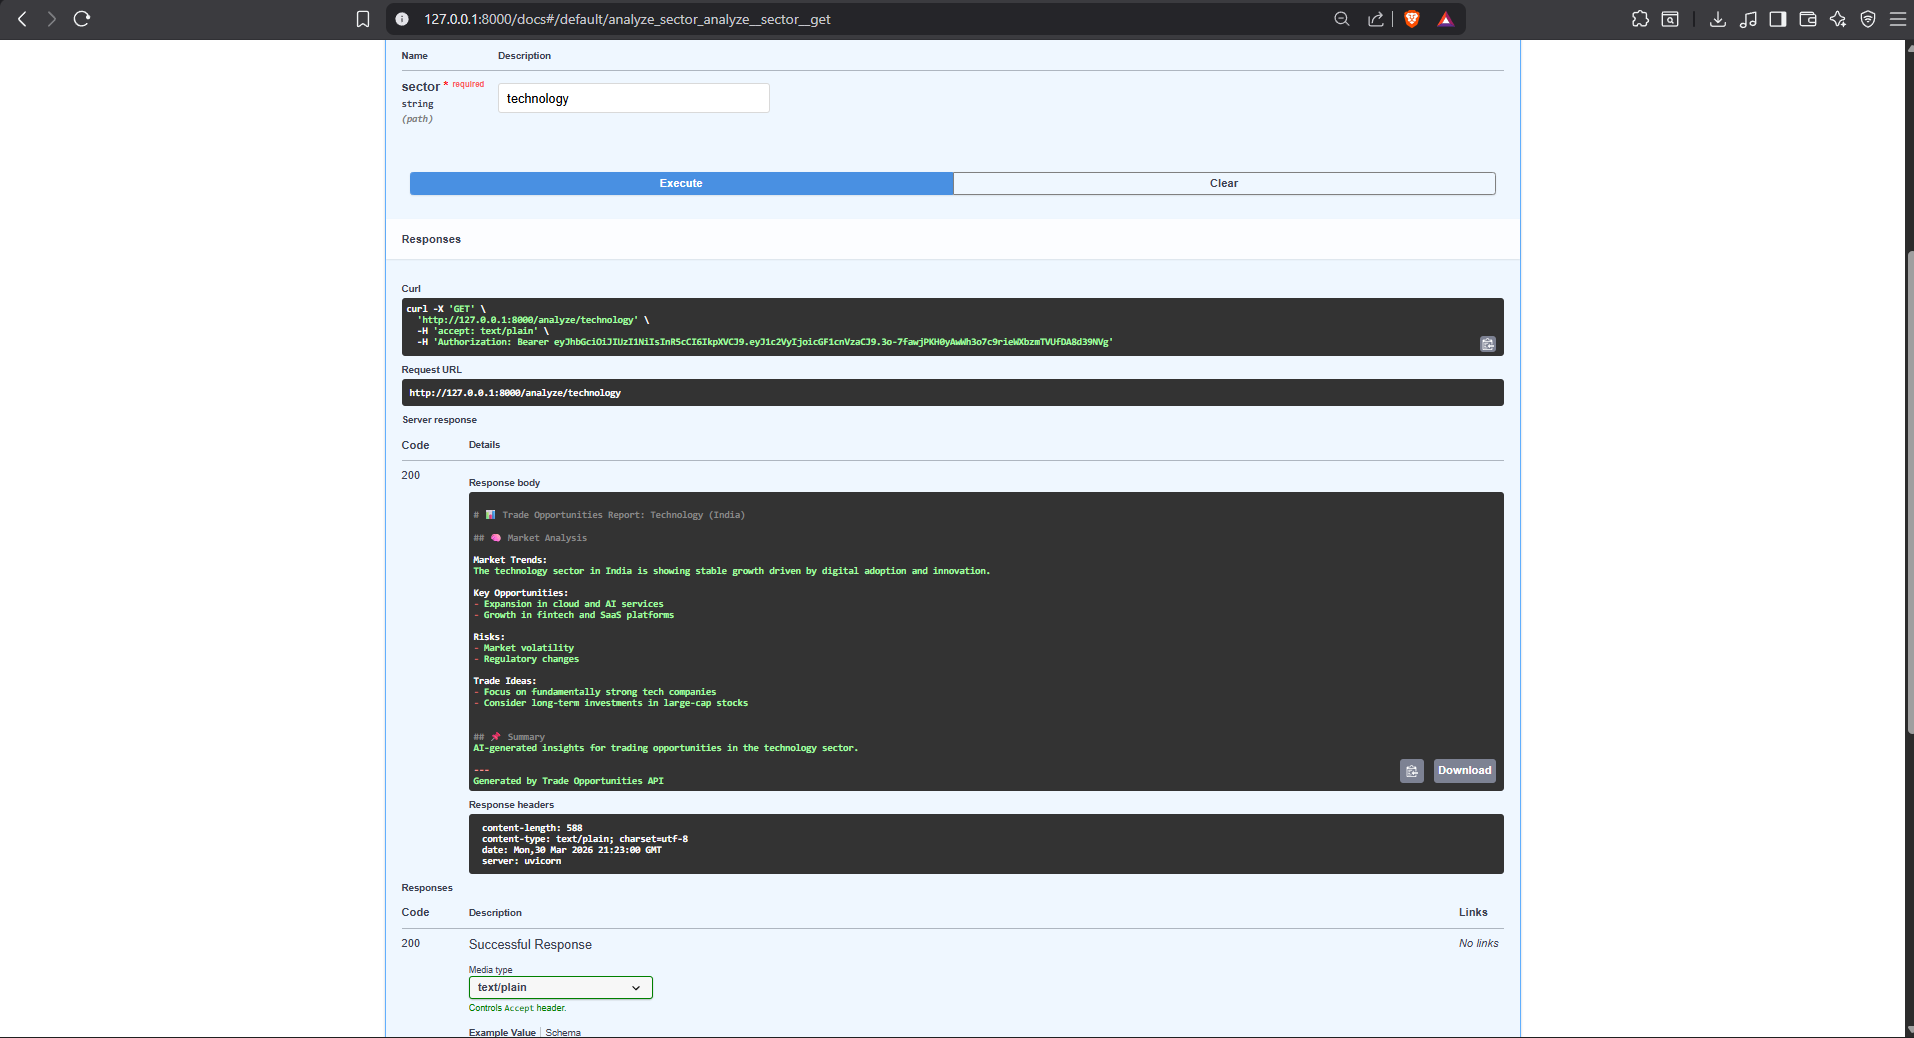
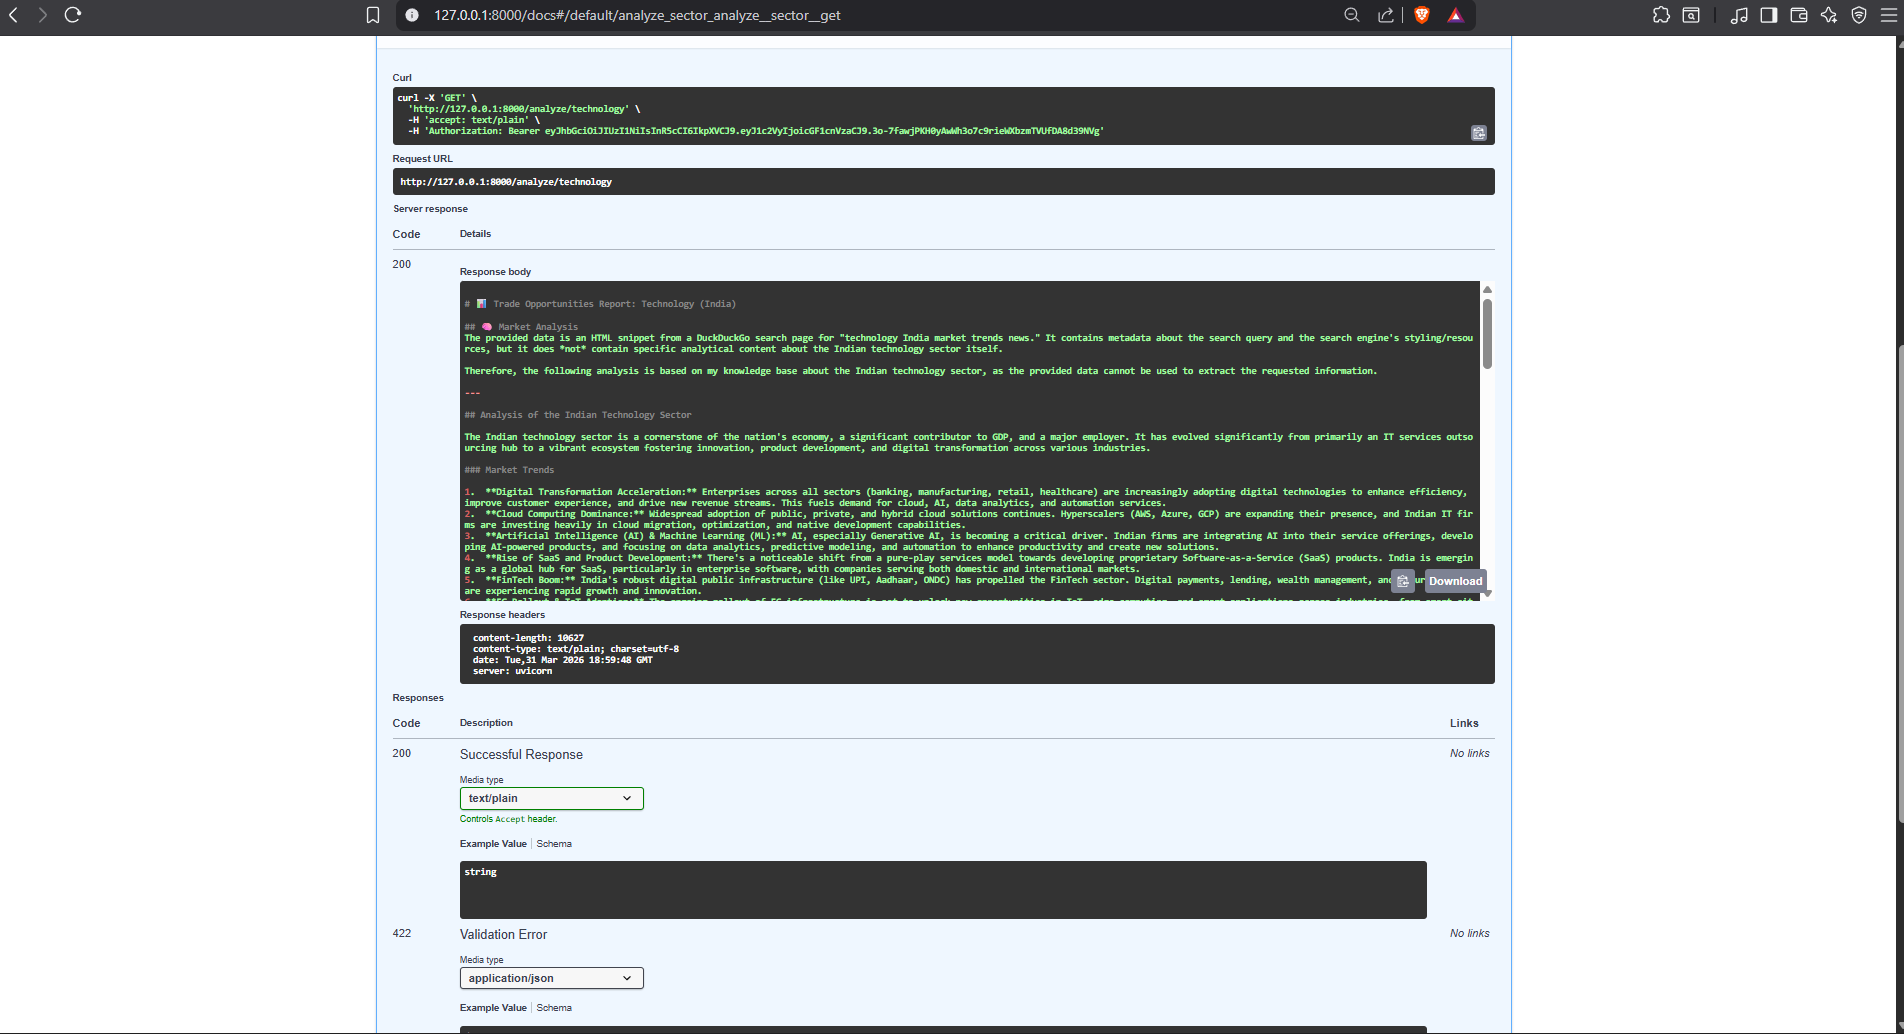
Initial commit - Gemini API integration

diff --git a/app/services/ai_analyzer.py b/app/services/ai_analyzer.py
@@ -1,50 +1,33 @@
 import os
 from dotenv import load_dotenv
-from openai import OpenAI
+from google import genai
 
 load_dotenv()
 
-client = OpenAI(api_key=os.getenv("OPENAI_API_KEY"))
+# Initialize Gemini client
+client = genai.Client(api_key=os.getenv("GEMINI_API_KEY"))
 
 async def analyze_data(sector, data):
     try:
         prompt = f"""
-        Analyze the Indian {sector} sector.
+Analyze the Indian {sector} sector.
 
-        Provide:
-        - Market Trends
-        - Key Opportunities
-        - Risks
-        - Trade Ideas
+Provide:
+- Market Trends
+- Key Opportunities
+- Risks
+- Trade Ideas
 
-        Data:
-        {data}
-        """
+Data:
+{data}
+"""
 
-        response = client.chat.completions.create(
-            model="gpt-4o-mini",
-            messages=[
-                {"role": "user", "content": prompt}
-            ]
+        response = client.models.generate_content(
+            model="gemini-2.5-flash",
+            contents=prompt
         )
 
-        return response.choices[0].message.content
+        return response.text
 
-    except Exception:
-        # ✅ Clean fallback (NO error exposed)
-        return f"""
-Market Trends:
-The {sector} sector in India is showing stable growth driven by digital adoption and innovation.
-
-Key Opportunities:
-- Expansion in cloud and AI services
-- Growth in fintech and SaaS platforms
-
-Risks:
-- Market volatility
-- Regulatory changes
-
-Trade Ideas:
-- Focus on fundamentally strong tech companies
-- Consider long-term investments in large-cap stocks
-"""
+    except Exception as e:
+        return f"Error analyzing data: {str(e)}"
